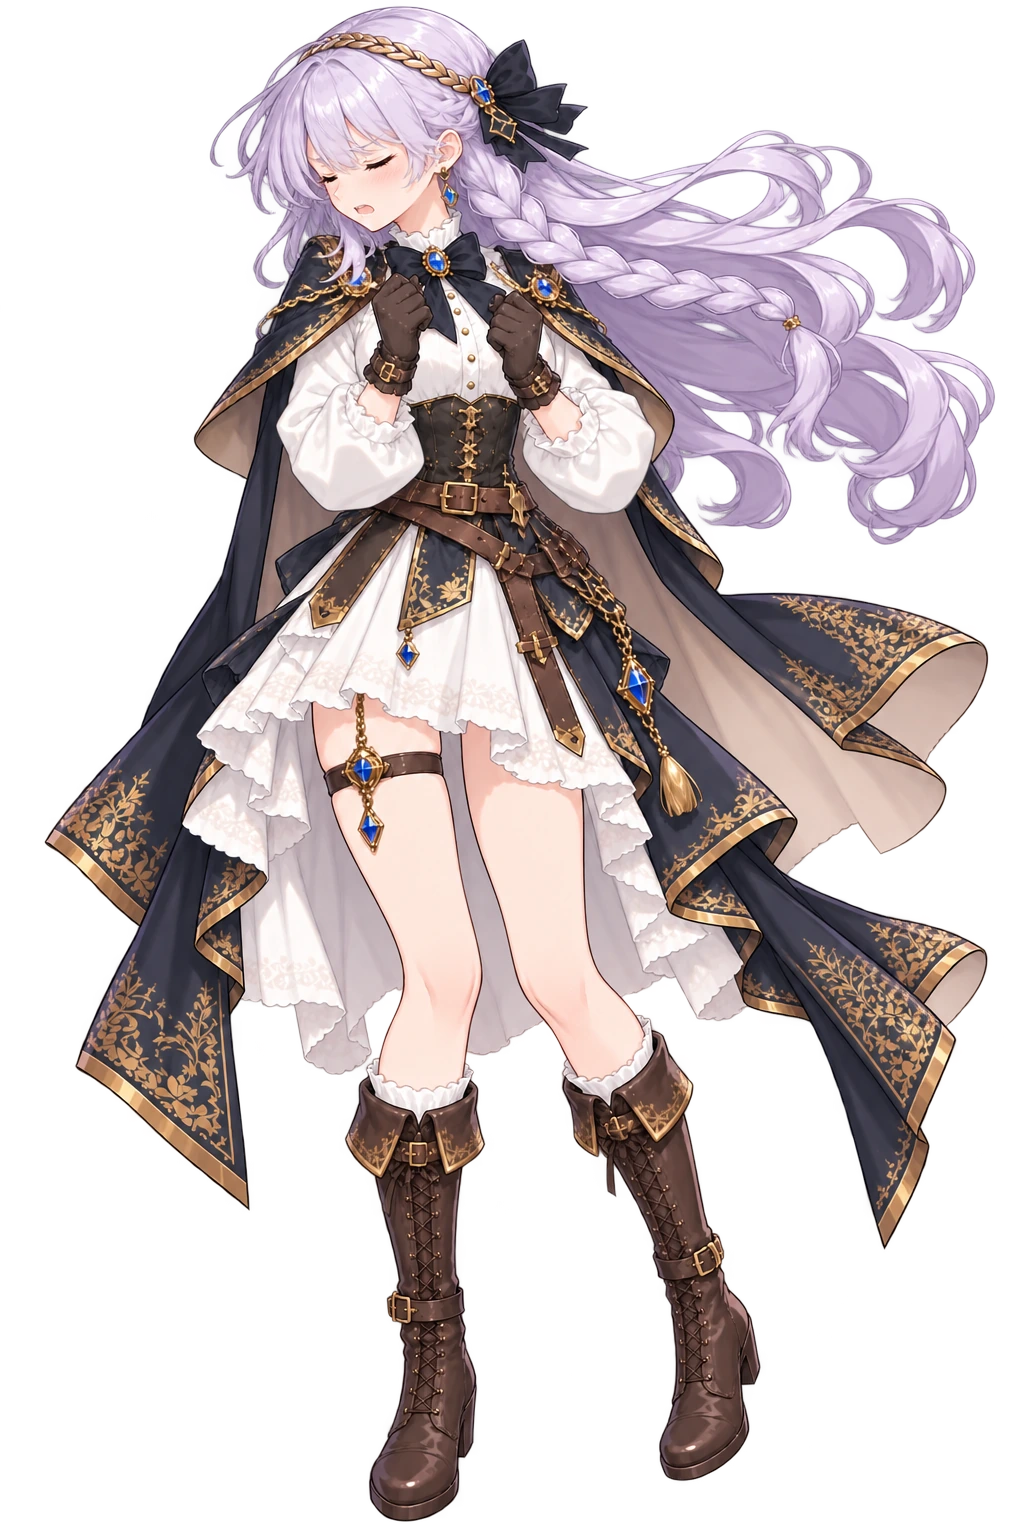
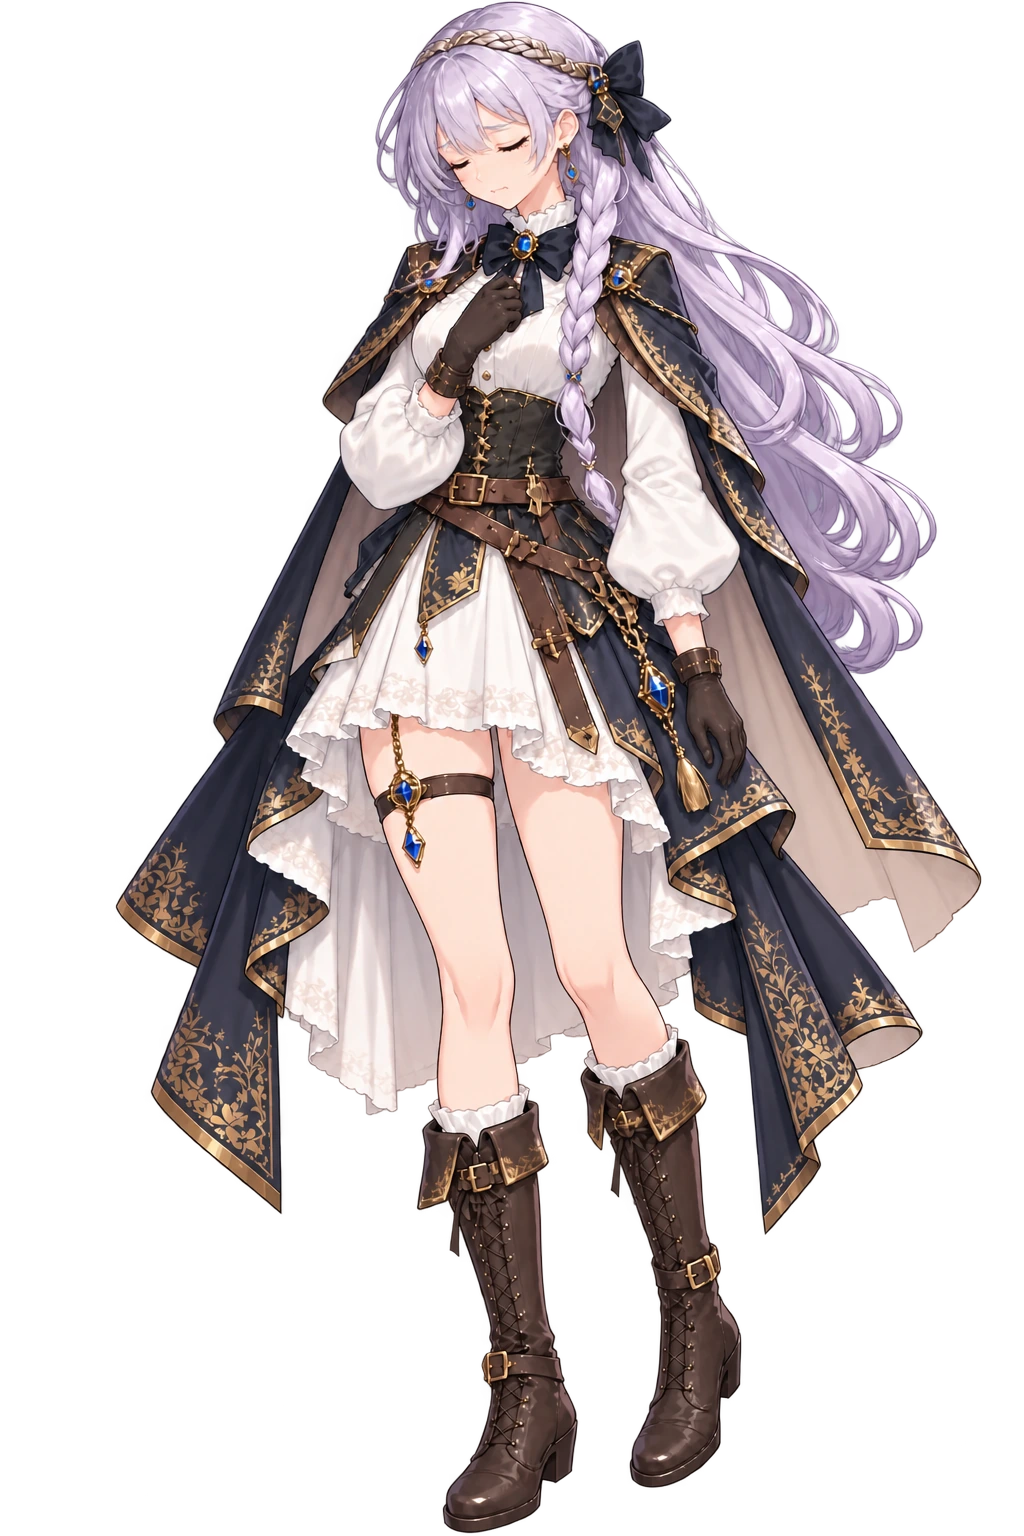
art: 安雅 shakehead 換成動作小的 v2（同名覆蓋，舊圖回收）＋程式端工單（版本號／取景重量／眨眼）

diff --git a/resources/si/_anya_shakehead_v2_worklist.md b/resources/si/_anya_shakehead_v2_worklist.md
@@ -1,0 +1,24 @@
+# 給程式 session 的工單 — 安雅 `shakehead` 換圖（同名覆蓋，2026-10-28，美術 session）
+
+> Ray 10-28：「安雅現在的搖頭立繪太誇張了 換一個動作小點的」→「安雅搖頭 v2 可以 覆蓋」。
+> 鐵律 11：美術不動 `.js`。下面三件都是程式端的。
+
+## 1. ⚠⚠ 版本號（同名覆蓋，不做就會一直吃舊快取）
+跑 `python3 tools/bust.py --bump`。實測它會自動做這兩處（美術誤跑過一次、已原樣還原，內容如下供對照）：
+- `config.js` 的 `ASSET_VER` 自動區塊加 `'anya_si_shakehead': '274438ab'`
+- `script/speakers.js` 的 `shakehead` 那一列 `src` 掛上 `?v=274438ab`
+
+## 2. 取景值要重量（新圖構圖不同）
+```js
+shakehead: { src:'resources/si/anya_si_shakehead.webp?v=…', top:0, bot:1533, fx:0.510 },
+```
+舊值 `top:5, bot:1521, fx:0.405` 是舊圖的，**不可沿用**（新圖人物置中、頭髮不再往右甩）。數字是 `tools/measure_si.py` 量的。
+
+## 3. 眨眼要拿掉或重做
+`script/blink.js` 的 `"anya_si_shakehead"` 那一筆（`resources/si/blink/anya_si_shakehead_{half,closed}.webp`）是**對舊圖量的眼睛位置**，套在新圖上會錯位。
+⇒ 新圖本來就是**閉眼**，建議直接**拿掉這一筆眨眼**（閉著的眼睛不用眨）。若要保留眨眼得重做（`blink_gpt.py` 那條，程式的活）。
+⚠ 兩張舊眨眼檔美術**沒有回收**（blink.js 還在指著它們，回收了會 404）—— 拿掉那一筆之後再回收即可。
+
+## 檔
+- 新圖：`resources/si/anya_si_shakehead.webp`；原 PNG：`resources/_originals/SI/anya_si_shakehead.png`
+- 舊圖：`_recycle/resources/si/anya_si_shakehead.webp`（`tools/recycle.sh --restore` 可放回）
